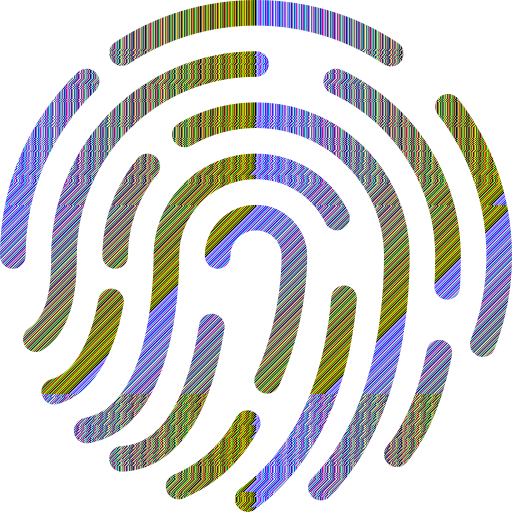
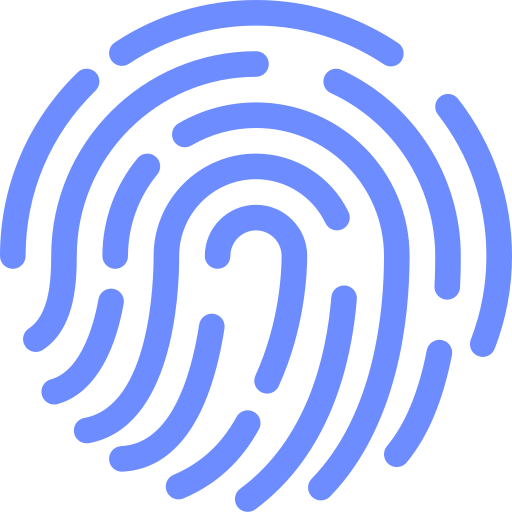
feat(ui): convert fingerprint hero to electric blue and update sign in sheet

diff --git a/app/sign-in.tsx b/app/sign-in.tsx
@@ -87,6 +87,7 @@ function getCachedOrFetchProgramAccounts(connection: Connection): ProgramAccount
 const ONBOARDING_BG = require('@/assets/images/onboarding-bg.png')
 const FINGERPRINT_HERO_WHITE = require('@/assets/images/fingerprint-hero-white.png')
 const FINGERPRINT_HERO_DARK = require('@/assets/images/fingerprint-hero.png')
+const FINGERPRINT_HERO_BLUE = require('@/assets/images/fingerprint-hero-blue.png')
 
 interface OnboardingPalette {
   heroBg: string
@@ -1410,7 +1411,11 @@ export default function SignIn() {
             >
               <View style={styles.heroBiometricRing}>
                 <View style={styles.heroBiometricInnerCircle}>
-                  <TablerFingerprintIcon size={28} color="#6C8CFF" strokeWidth={2} />
+                  <Image
+                    source={FINGERPRINT_HERO_BLUE}
+                    style={{ width: 34, height: 34 }}
+                    resizeMode="contain"
+                  />
                 </View>
               </View>
               <Text style={styles.sheetDesc}>Authenticate with your biometric passkey</Text>
